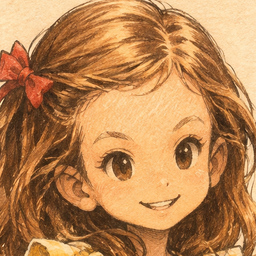
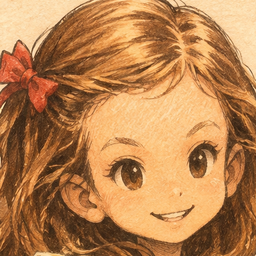
portrait-bake: CHANGED rose portraits2 [skip ci]

diff --git a/index.html b/index.html
@@ -2155,13 +2155,13 @@ html.landscape:not(.tablet):not(.duo) #battle.v2 .b2-x{font-size:17px}html.lands
 <script src="engine/emotions.js?v=qa-bug02"></script>
 <script src="engine/script-edits.js?v=scripted2"></script><!-- Script Editor overlay: Tom's line edits applied before a scene plays (script.html) --><!-- mood faces and poses in story dialogue (batch 0: chapter 1) -->
 <script src="engine/tapwalk.js?v=bossbig1"></script><!-- tap to walk -->
-<script src="data/build-history.js?v=guidegen1"></script><!-- build names and times (tools/build_history.py) -->
+<script src="data/build-history.js?v=portraits2"></script><!-- build names and times (tools/build_history.py) -->
 <script src="engine/build-history.js?v=refresh1"></script><!-- build label on the welcome screen and menu, tap for the build history -->
 <script src="engine/amber-spots.js?v=qa-coh06"></script><!-- orange blocks left behind are solid and answer A (amberspot1) -->
 <script src="engine/block-break.js?v=ch7t1"></script><!-- breaking an orange block: coin, cracks, colour ring, shrink-back, encounters off (ch6build stage 2) -->
 <script src="engine/scene-props.js?v=qa-coh07"></script><!-- drawn stand-in props a scene can put on a map: the chart, Rose rolled up, the gold ball, bulbs (ch7build stage 2) -->
 <script src="engine/video-call.js?v=ch6s4"></script><!-- the video call at the end of chapter 6: Long Island seen from Tom's porch (ch6build stage 4) -->
-<script src="engine/main.js?v=guidegen1"></script>
+<script src="engine/main.js?v=portraits2"></script>
 <script src="engine/music.js"></script>
 <script src="data/songs.js"></script>
 <script src="engine/music-clips.js?v=adminvol1"></script>

diff --git a/engine/main.js b/engine/main.js
@@ -109,7 +109,7 @@ startSplash();
   const d=document.createElement('button');
   d.type='button'; d.id='build-stamp'; d.setAttribute('aria-label','Build history');
   // On an iPhone Duo the stamp also shows the page size and pose the game measured, so Tom can read them back (docs/DUO.md).
-  d.textContent='build guidegen1';
+  d.textContent='build portraits2';
   const build=d.textContent,stamp=()=>{ const w=typeof buildWhenLabel==='function'?buildWhenLabel(build.slice(6)).slice(2):'', duo=typeof duoMode!=='undefined'&&duoMode.device?window.innerWidth+'x'+window.innerHeight+(duoMode.open?' duo open':' duo folded'):'';
     d.textContent=build; for(const t of [w,duo]) if(t){ const s=document.createElement('small'); s.textContent=t; d.appendChild(s); } };
   window.BUILD_TAG=build.slice(6);

diff --git a/data/build-history.js b/data/build-history.js
@@ -1,5 +1,6 @@
 // Generated by tools/build_history.py. Do not edit by hand. Newest first.
 const BUILD_HISTORY=[
+{"tag":"portraits2","at":"2026-11-21T19:09:00+00:00","what":""},
 {"tag":"guidegen1","at":"2026-11-21T11:05:13-08:00","what":"The Battle Guide can make a video, show it next to the one in the game, and put it in the game","card":"c-guidegen","theme":"Battle Animations"},
 {"tag":"anim-tom-dodge-ner3","at":"2026-11-21T11:04:18-08:00","what":"Tom's Dodge is a Wan 3.0 video now: he ducks straight down with both hands on his head and pops back up","card":"c-anim-tom-dodge-ner3","theme":"Battle Animations"},
 {"tag":"artbake1570","at":"2026-11-21T19:02:54+00:00","what":"","kind":"house"},

diff --git a/data/portrait-ver.js b/data/portrait-ver.js
@@ -1,4 +1,4 @@
 // Generated by tools/sprite-bake/bake_portraits.py (portrait1). Do not hand-edit.
 // PORTRAIT_IDS: everyone with a portrait (portraits/<id>.png). PORTRAIT_V: stamp of those pictures' pixels.
 const PORTRAIT_IDS=["tom", "tnb", "grace", "rose", "amy", "justin", "olivia", "deedee", "boppy", "ellie", "jojo", "michael", "nara"];
-const PORTRAIT_V='p226d4a304c';
+const PORTRAIT_V='p68aa55104d';

diff --git a/docs/CHANGES.md b/docs/CHANGES.md
@@ -1,3 +1,7 @@
+## portraits2 (2026-11-21): Portraits baked from your saved crops: rose (made by the portrait-bake Action)
+
+- Tom saved crops in ADMIN > PORTRAIT CROPS (or approved a new hero painting); the Action baked `portraits/<id>.png` and moved `PORTRAIT_V` in `data/portrait-ver.js`, the one stamp every status screen, turn order, battle panel and the Battle Guide use for those pictures (tools/sprite-bake/portrait_autobake.py).
+
 ## guidegen1 (2026-11-21): the Battle Guide can make a video, show it next to the one in the game, and put it in the game
 
 Card c-guidegen part 3 (plan `claude/guidegen-plan.md`, facts `docs/BATTLE_GUIDE.md` "Making a video from the guide"). Nothing paid was run in this session: every test used a stand-in fal, a stand-in xAI and synthetic videos; the first real generation is Tom's tap.
